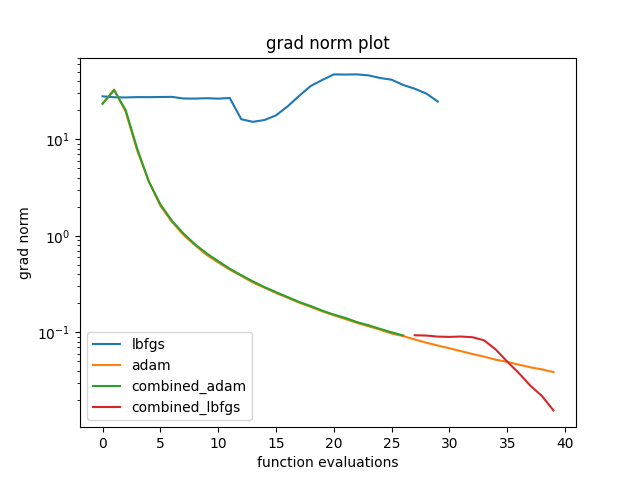
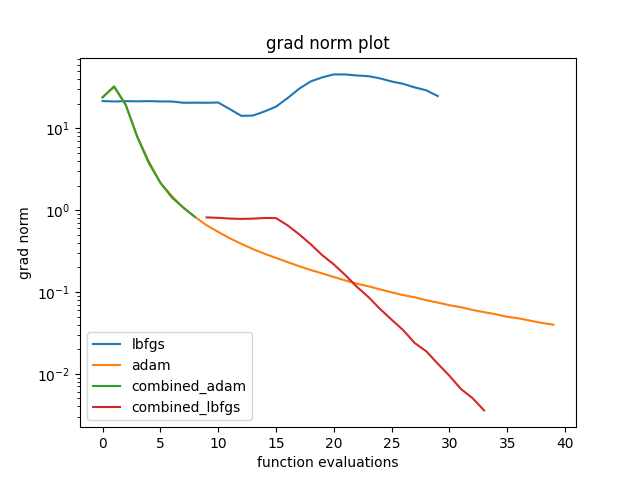
Combined with bound grad_norm=1

diff --git a/lenet_tests.py b/lenet_tests.py
@@ -31,12 +31,13 @@ def main():
     device = torch.device("mps")
 
     model_lbfgs = LeNet().to(device)
-    # sz = 0
-    # for p in model_lbfgs.parameters():
-    #     mul = 1
-    #     for x in p.size():
-    #         mul *= x
-    #     sz += mul
+    sz = 0
+    for p in model_lbfgs.parameters():
+        mul = 1
+        for x in p.size():
+            mul *= x
+        sz += mul
+    print(sz)
     lbfgs_stats = lbfgs_train(model_lbfgs, trainloader, device, max_eval=50, history_size=10)
 
     model_adam = LeNet().to(device)

diff --git a/train_methods.py b/train_methods.py
@@ -184,7 +184,7 @@ def combined_train(model: nn.Module,
             optimizer.step()
 
         stats.collect_stats(model, dataloader, device)
-        if stats.grad_norm[-1] < 1e-1:
+        if stats.grad_norm[-1] < 1:
             return stats, lbfgs_train(model, dataloader, device, max(5, max_eval - epoch - 1))
         print(f"Epoch #{epoch} loss is {stats.loss[-1]}")
     return stats, lbfgs_train(model, dataloader, device, 5)
